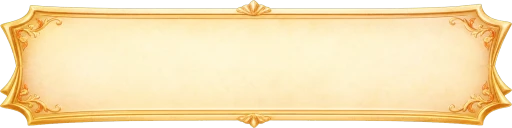
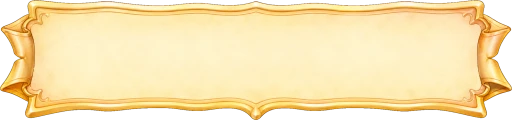
fix(web): use scroll-shaped VIP reward plaque

Changed region(s): [[0.0, 0.0, 1.0, 1.0]]

diff --git a/apps/web/src/domains/market/ui/market-density.css b/apps/web/src/domains/market/ui/market-density.css
@@ -193,7 +193,7 @@
 
 .app-shell .market-page-buy .vip-market-benefit-label {
   width: 78px;
-  height: 16px;
+  height: 18px;
   display: grid;
   place-items: center;
   margin-top: -8px;
